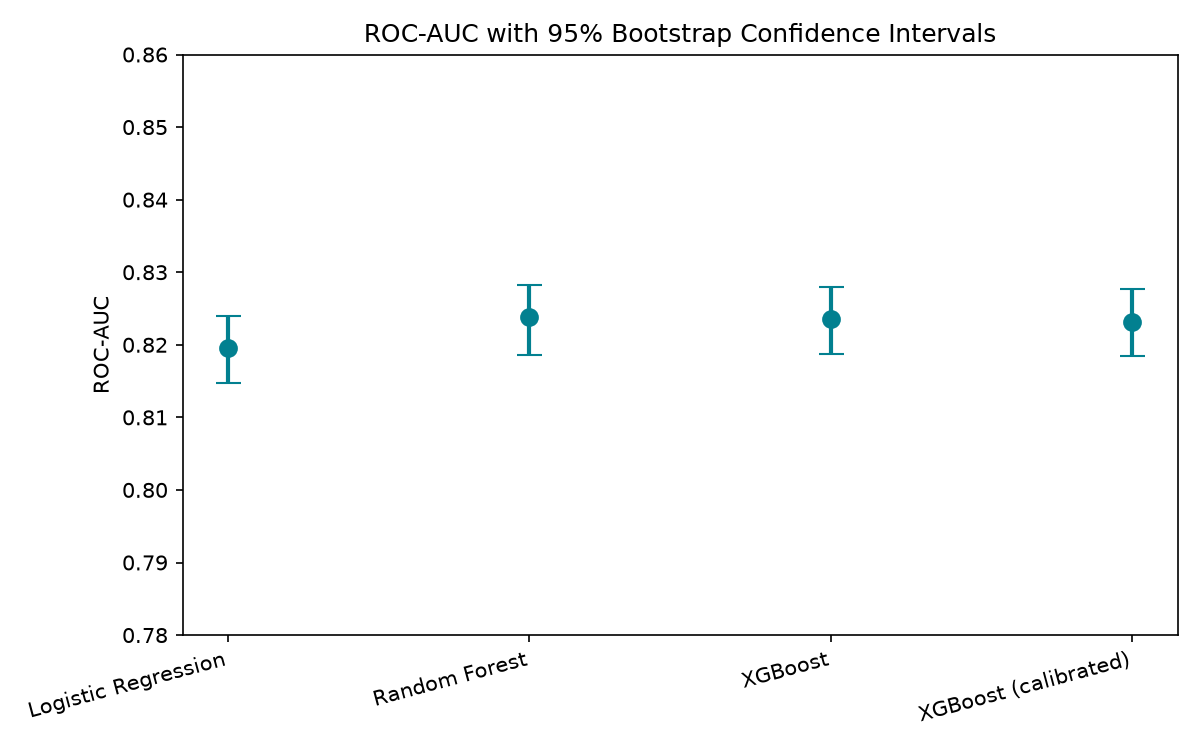
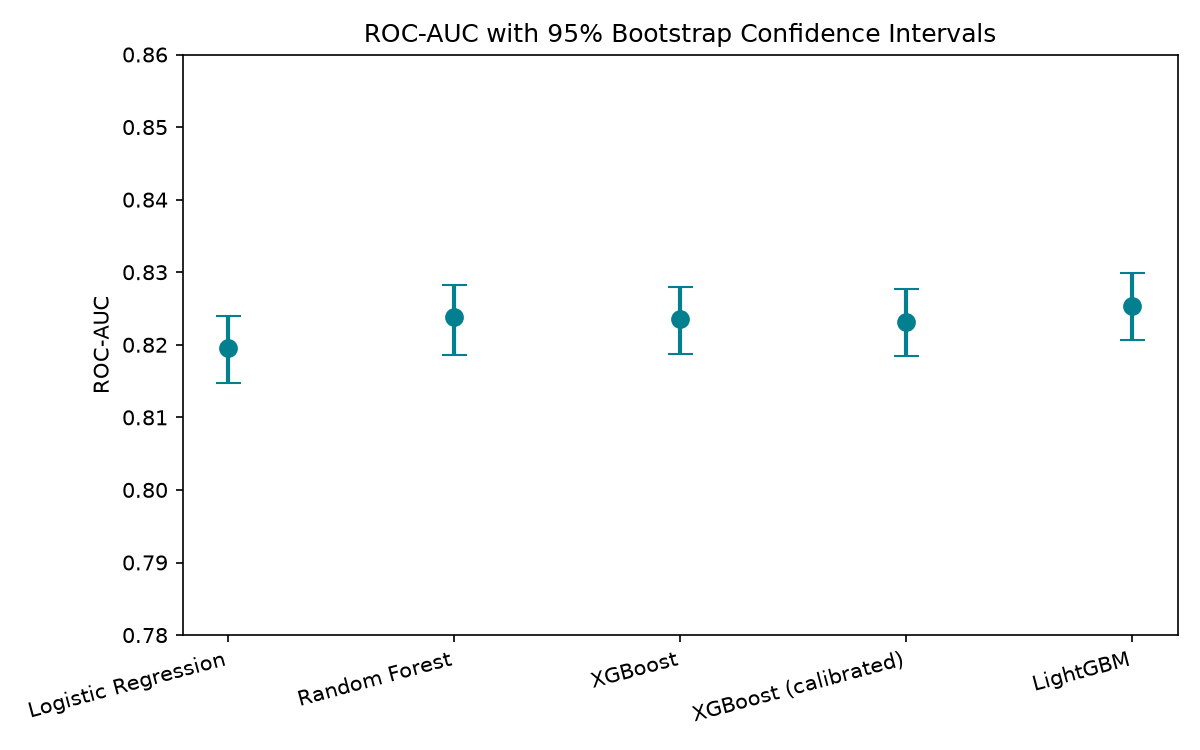
Add LightGBM: highest raw AUC, statistically significant but practically negligible edge over RF/XGBoost

diff --git a/17_train_lgbm.py b/17_train_lgbm.py
@@ -1,0 +1,41 @@
+import joblib
+from lightgbm import LGBMClassifier
+from sklearn.metrics import (
+    classification_report, roc_auc_score, brier_score_loss,
+    confusion_matrix
+)
+
+X_train, X_test, y_train, y_test, scaler = joblib.load("models/split.pkl")
+
+# ratio of negative to positive samples in the training set (same as XGBoost script)
+neg, pos = (y_train == 0).sum(), (y_train == 1).sum()
+scale_pos_weight = neg / pos
+print(f"scale_pos_weight = {scale_pos_weight:.3f}")
+
+model = LGBMClassifier(
+    n_estimators=300,
+    max_depth=6,
+    learning_rate=0.1,
+    scale_pos_weight=scale_pos_weight,
+    n_jobs=-1,
+    random_state=42,
+    verbose=-1  # suppress LightGBM's default training logs
+)
+model.fit(X_train, y_train)
+
+y_pred = model.predict(X_test)
+y_proba = model.predict_proba(X_test)[:, 1]
+
+print("\n=== LightGBM ===")
+print(classification_report(y_test, y_pred, target_names=["No Diabetes", "Diabetes"]))
+print(f"AUC-ROC:     {roc_auc_score(y_test, y_proba):.4f}")
+print(f"Brier score: {brier_score_loss(y_test, y_proba):.4f}")
+print("\nConfusion matrix:")
+print(confusion_matrix(y_test, y_pred))
+
+joblib.dump(model, "models/lgbm.pkl")
+print("\nSaved model to models/lgbm.pkl")
+
+import os
+size_mb = os.path.getsize("models/lgbm.pkl") / (1024 * 1024)
+print(f"Model file size: {size_mb:.1f} MB")

diff --git a/14_statistical_significance.py b/14_statistical_significance.py
@@ -11,6 +11,7 @@ models = {
     "Random Forest": (joblib.load("models/random_forest.pkl"), False),
     "XGBoost": (joblib.load("models/xgboost.pkl"), False),
     "XGBoost (calibrated)": (joblib.load("models/xgboost_calibrated.pkl"), False),
+    "LightGBM": (joblib.load("models/lgbm.pkl"), False),
 }
 
 N_BOOTSTRAP = 1000
@@ -70,6 +71,8 @@ pairs = [
     ("Logistic Regression", "XGBoost"),
     ("Random Forest", "XGBoost"),
     ("XGBoost", "XGBoost (calibrated)"),
+    ("XGBoost", "LightGBM"),
+    ("Random Forest", "LightGBM"),
 ]
 pairwise_results = []
 for a, b in pairs:

diff --git a/13_final_summary.py b/13_final_summary.py
@@ -14,6 +14,7 @@ model_files = {
     "XGBoost": ("models/xgboost.pkl", False, 0.5),
     "XGBoost (calibrated, thresh=0.5)": ("models/xgboost_calibrated.pkl", False, 0.5),
     "XGBoost (calibrated, tuned thresh=0.245)": ("models/xgboost_calibrated.pkl", False, 0.245),
+    "LightGBM": ("models/lgbm.pkl", False, 0.5),
 }
 
 for name, (path, needs_scaling, threshold) in model_files.items():

diff --git a/README.md b/README.md
@@ -12,22 +12,28 @@ studies skip.
 | Logistic Regression | 0.8196 | 0.4413 | 0.1776 | Interpretable baseline |
 | Random Forest | 0.8238 | 0.4415 | 0.1738 | Regularized: `max_depth=12`, `min_samples_leaf=20` |
 | XGBoost | 0.8236 | 0.4422 | 0.1714 | `scale_pos_weight=6.177` for imbalance |
+| LightGBM | **0.8254** | 0.4415 | 0.1734 | Highest raw ROC-AUC and PR-AUC of any model tested |
 | XGBoost (calibrated, isotonic) | 0.8232 | 0.2162 @ thresh=0.5 | **0.0981** | Best of sigmoid vs. isotonic (near-tied) |
 | XGBoost (calibrated, tuned threshold=0.245) | 0.8232 | **0.4652** | 0.0981 | Best F1 of any configuration |
 
 *Confirmed reproducible: identical to 4 decimal places across two independent full pipeline runs.*
 
 **Headline findings:**
-- **Ensemble methods significantly outperform the linear baseline** — Random Forest and XGBoost both
-  beat Logistic Regression by a real, statistically significant margin (bootstrap 95% CI excludes 0:
-  RF vs. LR = +0.0042 AUC [0.0025, 0.0056]; XGBoost vs. LR = +0.0040 AUC [0.0019, 0.0058]).
-- **But Random Forest and XGBoost are statistically indistinguishable from each other**
-  (+0.0002 AUC, 95% CI [−0.0013, +0.0017], includes 0) — so *which* ensemble method you pick barely
-  matters, even though moving from linear to ensemble does.
-- **Calibration doesn't hurt ranking ability.** XGBoost vs. its Platt/isotonic-calibrated version shows
-  no significant AUC difference (+0.0004, CI includes 0) — as expected, since calibration is a
-  monotonic transform. You get the 43% Brier Score improvement "for free," without sacrificing
-  discrimination.
+- **Ensemble methods significantly outperform the linear baseline** — Random Forest, XGBoost, and
+  LightGBM all beat Logistic Regression by a real, statistically significant margin (bootstrap 95% CI
+  excludes 0: RF vs. LR = +0.0042 AUC [0.0025, 0.0056]; XGBoost vs. LR = +0.0040 AUC [0.0019, 0.0058]).
+- **Random Forest and XGBoost are statistically indistinguishable from each other**
+  (+0.0002 AUC, 95% CI [-0.0013, +0.0017], includes 0).
+- **LightGBM has a small but statistically significant edge over both** (XGBoost vs. LightGBM:
+  -0.0018 AUC, 95% CI [-0.0026, -0.0009]; Random Forest vs. LightGBM: -0.0016 AUC, 95% CI
+  [-0.0028, -0.0004] — both exclude 0). This is a genuine, reproducible finding, but a useful
+  reminder that **statistical significance is not the same as practical significance**: with a
+  50,736-case test set, the bootstrap is sensitive enough to detect a ~0.002 AUC difference, which is
+  far below any threshold that would change a real-world screening decision. LightGBM's histogram-based
+  leaf-wise growth gives it a measurable but clinically negligible edge on this dataset.
+- **Calibration doesn't hurt ranking ability.** XGBoost vs. its calibrated version shows no
+  significant AUC difference (+0.0004, CI includes 0) — as expected, since calibration is a monotonic
+  transform. You get the 43% Brier Score improvement "for free," without sacrificing discrimination.
 - Raw XGBoost (trained with imbalance correction) is **badly over-confident**: at a predicted
   probability of ~0.62, the true observed rate is only ~0.21. Calibration brings predicted/observed
   probabilities into close agreement.
@@ -88,7 +94,8 @@ diabetes-prediction/
 ├── 13_final_summary.py                 # consolidated results table across all models
 ├── 14_statistical_significance.py      # bootstrap 95% CIs + pairwise significance tests
 ├── 15_cv_all_models.py                 # independent 5-fold CV spread for LR, RF, XGBoost
-└── 16_subgroup_fairness.py             # calibration/AUC breakdown by Sex, Age, Income
+├── 16_subgroup_fairness.py             # calibration/AUC breakdown by Sex, Age, Income
+└── 17_train_lgbm.py                    # LightGBM (closes the "not yet trained" open item)
 ```
 
 
@@ -120,6 +127,7 @@ python 13_final_summary.py
 python 14_statistical_significance.py
 python 15_cv_all_models.py
 python 16_subgroup_fairness.py
+python 17_train_lgbm.py
 ```
 
 Each script saves its trained model/artifacts to `models/` and any figures/tables to `figures/`, so
@@ -202,7 +210,9 @@ results reveal real, non-trivial disparities:
   the diabetes prevalence but worse model calibration) — see Subgroup Fairness section above.
 - [ ] Investigate per-subgroup threshold tuning to fix the low-recall issue for ages 18-39
 - [ ] Add a dedicated `01_download_data.py` for full one-command reproducibility
-- [ ] LightGBM was discussed but not yet trained/evaluated
+- [x] ~~LightGBM was discussed but not yet trained/evaluated~~ — resolved: `17_train_lgbm.py` trained
+  and bootstrap-tested; LightGBM has the highest raw ROC-AUC (0.8254) of any model, a statistically
+  significant (but practically negligible, ~0.002 AUC) edge over Random Forest and XGBoost.
 
 ## License / Data Attribution
 
